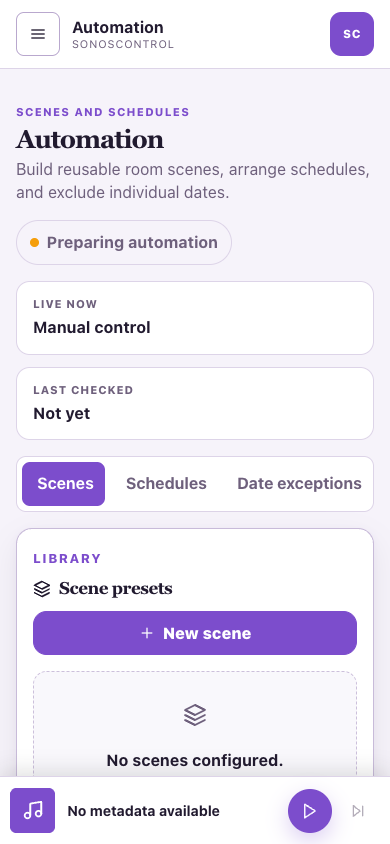
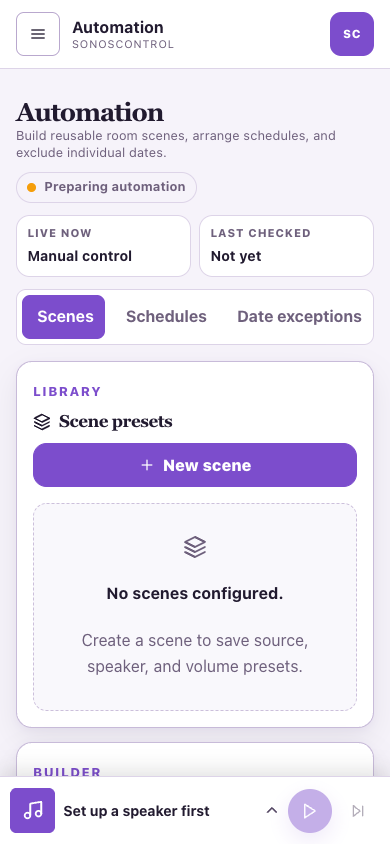
Improve mobile playback and library usability

diff --git a/SonosControl.Web/wwwroot/css/site.css b/SonosControl.Web/wwwroot/css/site.css
@@ -1458,7 +1458,10 @@ h3[tabindex="-1"]:focus {
 
 @media (max-width: 575.98px) {
     .workspace-page { padding-top: 0.8rem; padding-bottom: 6.5rem; }
-    .workspace-header { align-items: stretch; flex-direction: column; }
+    .workspace-header { align-items: stretch; flex-direction: column; gap: 0.65rem; margin-bottom: 0.75rem; }
+    .workspace-header h1 { margin: 0; }
+    .workspace-header p { font-size: 0.8rem; line-height: 1.35; }
+    .workspace-header .workspace-eyebrow { display: none; }
     .workspace-primary-action { width: 100%; }
     .app-dialog-backdrop { align-items: end; padding: 0; }
     .app-dialog { width: 100%; max-width: none; max-height: 100dvh; border-right: 0; border-bottom: 0; border-left: 0; border-radius: 1.2rem 1.2rem 0 0; }
@@ -1479,7 +1482,7 @@ h3[tabindex="-1"]:focus {
     }
     .player-surface--compact .global-player-bar__art { width: 2.8rem; height: 2.8rem; }
     .player-surface--compact .global-player-bar__eyebrow,
-    .player-surface--compact .global-player-bar__meta > span:last-child { display: none; }
+    .player-surface--compact .global-player-bar__source { display: none; }
     .player-surface--compact .global-player-bar__center { gap: 0.2rem; }
     .player-surface--compact .global-player-bar__center .global-player-bar__control:first-child,
     .player-surface--compact .global-player-bar__room { display: none; }
@@ -1956,6 +1959,10 @@ h3[tabindex="-1"]:focus {
     overflow: hidden;
     text-overflow: ellipsis;
     white-space: nowrap;
+}
+
+.global-player-bar__meta .global-player-bar__active-room {
+    display: none;
 }
 
 .global-player-bar__meta strong {
@@ -3471,10 +3478,14 @@ html:not([data-theme='dark']) .auth-brand-panel {
     }
 
     .player-surface--compact .global-player-bar__eyebrow,
-    .player-surface--compact .global-player-bar__meta > span:last-child,
+    .player-surface--compact .global-player-bar__source,
     .player-surface--compact .global-player-bar__room,
     .player-surface--compact .global-player-bar__center .global-player-bar__control:first-child {
         display: none;
+    }
+
+    .player-surface--compact .global-player-bar__meta .global-player-bar__active-room {
+        display: block;
     }
 
     .player-surface--compact .global-player-bar__center {

diff --git a/SonosControl.Web/Pages/IndexPage.razor.css b/SonosControl.Web/Pages/IndexPage.razor.css
@@ -783,11 +783,40 @@
     }
 }
 
-@media (max-width: 420px) {
-    .home-intro h1 {
-        font-size: 1.55rem;
+@media (max-width: 575.98px) {
+    .home-stage {
+        padding: 0;
+        gap: var(--spacing-sm);
     }
 
+    .home-intro {
+        gap: var(--spacing-xs);
+    }
+
+    .home-intro__copy .home-eyebrow,
+    .home-intro__sub {
+        display: none;
+    }
+
+    .home-intro__status {
+        flex-direction: row;
+        flex-wrap: wrap;
+        align-items: center;
+        gap: var(--spacing-xs) var(--spacing-sm);
+    }
+
+    .home-status-pill {
+        min-height: 1.5rem;
+        padding-inline: var(--spacing-sm);
+    }
+
+    .home-intro h1 {
+        font-size: 1.55rem;
+        margin: 0;
+    }
+}
+
+@media (max-width: 420px) {
     .rooms-section__head,
     .library__head {
         align-items: flex-start;

diff --git a/SonosControl.Web/Pages/AutomationPage.razor.css b/SonosControl.Web/Pages/AutomationPage.razor.css
@@ -20,3 +20,9 @@
 .exception-card .btn { min-height: 2.75rem; }
 @media (max-width: 991.98px) { .exception-editor { grid-template-columns: repeat(2, minmax(0, 1fr)); } }
 @media (max-width: 767.98px) { .automation-live-strip, .exception-editor { grid-template-columns: 1fr; } .automation-health { align-self: flex-start; } }
+@media (max-width: 575.98px) {
+    .automation-health { min-height: 1.75rem; padding: 0.25rem 0.65rem; font-size: 0.8rem; }
+    .automation-live-strip { grid-template-columns: repeat(2, minmax(0, 1fr)); gap: 0.5rem; margin-bottom: 0.75rem; }
+    .automation-live-strip > div { min-width: 0; padding: 0.55rem 0.65rem; }
+    .automation-live-strip strong { font-size: 0.875rem; overflow-wrap: anywhere; }
+}
